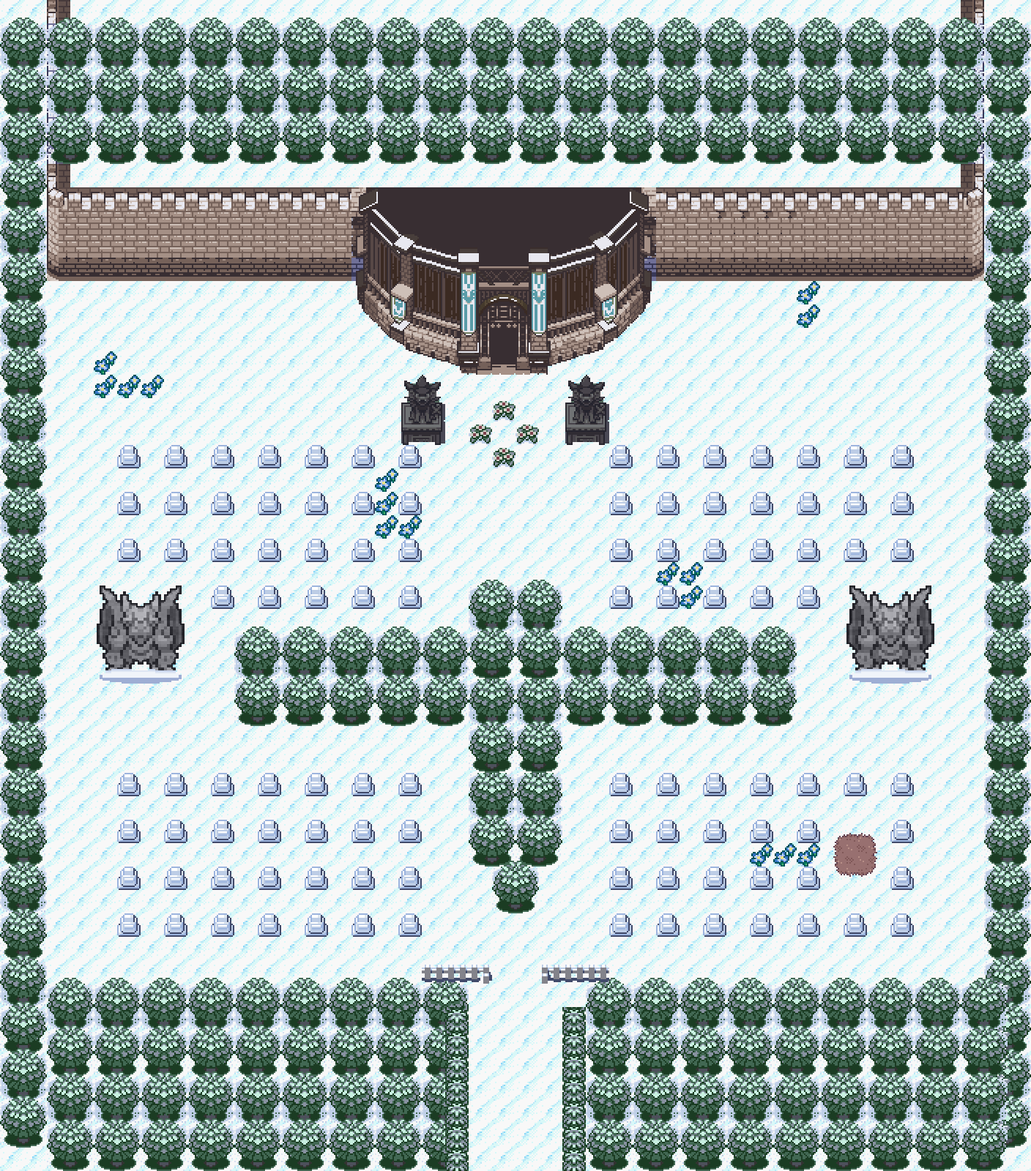
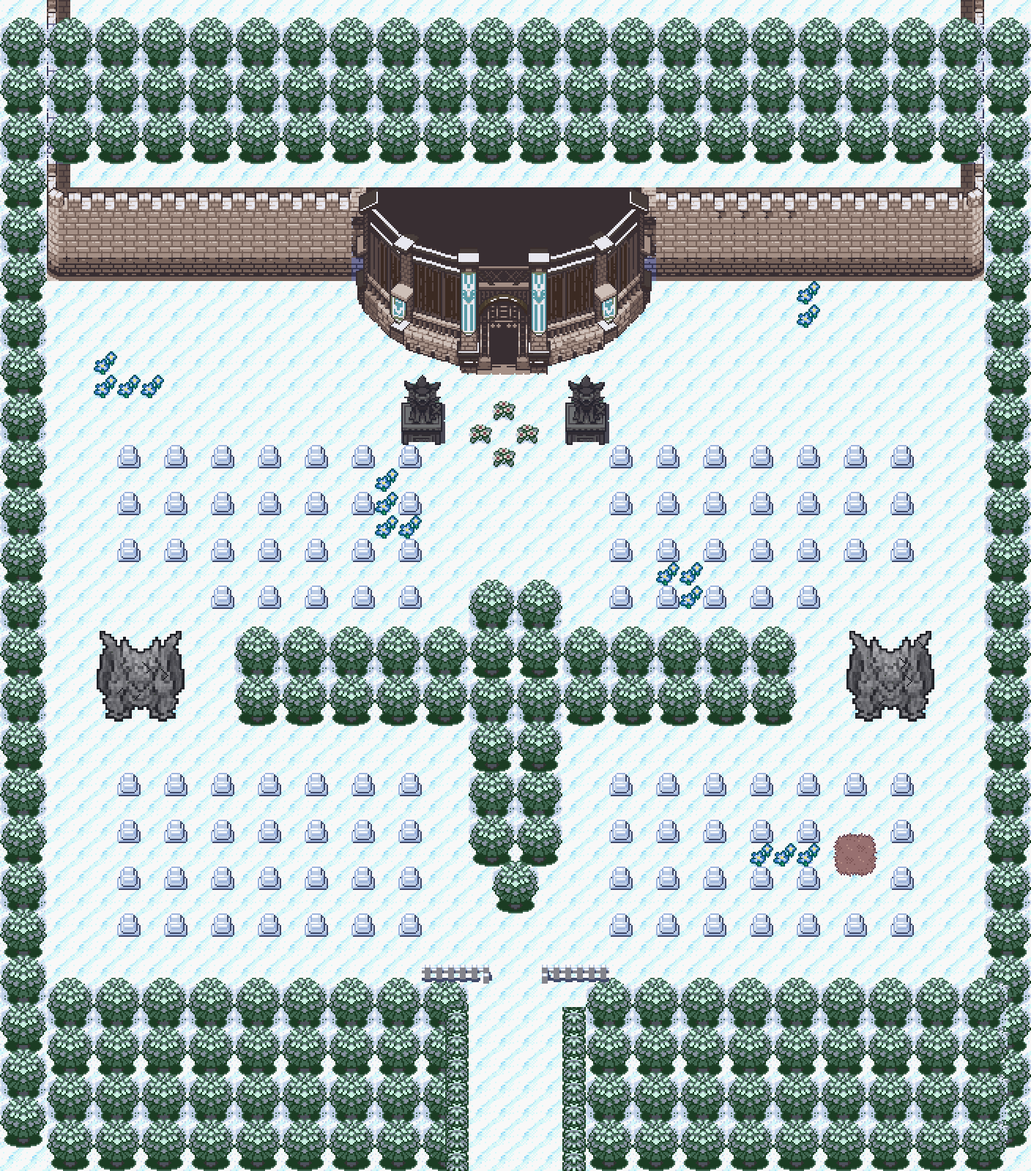
Necropolis grounds: weathered stone Druddighuls, centred on the tree cross
The user: stonier and weathered, nothing beneath them, centred on the trees; this version approved ("this actually looks correct"). Rough weathered stone, a one-pixel outline, centred to the pixel on the arm of the cross and across the gap to the yard's trees; the nearest graves kept clear. (A ring of half-buried graves is left in the code, unused.)

Claude-Session: https://claude.ai/code/session_01FHXnfqnedTHLf5QFbB3MCU

Changed region(s): [[0.8125, 0.5, 0.9062, 0.625], [0.0938, 0.5, 0.1875, 0.625]]

diff --git a/tools/art/necropolis/grounds_mock.py b/tools/art/necropolis/grounds_mock.py
@@ -81,49 +81,84 @@ def stone(img, x0=0, y0=0):
             out[y, x] += (rnd('st', x0 + x, y0 + y) - 0.5) * 18
     return np.clip(out, 0, 255).astype(np.uint8)
 
-def druddighul_statue(M, x0, y0):
+def weathered_stone(img, a, seed):
+    """Old grey stone, rough and weathered (user 2026-11-21: "this actually looks correct"): the lightness on a
+    cold grey ramp under a strong mottle, light catching its top edges, grime gathered low down, hairline cracks,
+    lichen-dark pits; a one-pixel outline."""
+    from scipy.ndimage import binary_erosion
+    f = img.astype(float); l = v3._lum(f) / 255.0
+    lo, hi = np.array([36, 36, 42], float), np.array([196, 196, 200], float)
+    t = np.clip((l - 0.08) / 0.8, 0, 1) * 0.85 + 0.08
+    hh, ww = l.shape
+    noise = np.array([[rnd(seed, 'm', x // 2, y // 2) - 0.5 + 0.5 * (rnd(seed, 'f', x, y) - 0.5)
+                       for x in range(ww)] for y in range(hh)])
+    t = t + noise * 0.22
+    ys = np.arange(hh)[:, None] / hh
+    t = t - 0.12 * np.clip((ys - 0.65) / 0.35, 0, 1)                  # grime low down
+    up = a & ~np.vstack([np.zeros((1, ww), bool), a[:-1]])               # pixels with open air above
+    t[up] += 0.18
+    out = lo + (hi - lo) * np.clip(t, 0, 1)[..., None]
+    for k in range(7):                                                    # hairline cracks
+        x, y = int(rnd(seed, 'cx', k) * ww), int(rnd(seed, 'cy', k) * hh)
+        for j in range(4 + int(rnd(seed, 'cl', k) * 5)):
+            if 0 <= x < ww and 0 <= y < hh and a[y, x]: out[y, x] = (30, 30, 36)
+            x += 1 if rnd(seed, 'dx', k, j) < 0.5 else -1; y += 1
+    for k in range(16):                                                   # lichen-dark pits
+        x, y = int(rnd(seed, 'px', k) * ww), int(rnd(seed, 'py', k) * hh)
+        if a[y, x]: out[y, x] = (62, 70, 62)
+    edge = a & ~binary_erosion(a, np.ones((3, 3), bool))
+    out[edge] = (30, 30, 36)
+    return np.clip(out, 0, 255).astype(np.uint8)
+
+def druddighul_statue(M, x0, y0, cy_px, seed):
     """A stone Druddighul (user 2026-11-21): MonoMyth's Druddighul, the decrepit dragon of the Apocryphal
-    Bastion's ruined castle (its overworld sprite, graphics 0x128), drawn at twice its size (user: bigger, no
-    plinth) and turned to grey stone head to toe, the stone's grain laid at the map's own pixel size so it does not
-    look blown up; it stands in the snow, no platform (user), its shadow under it, the snow banked over its feet. 4 x 5."""
+    Bastion's ruined castle (its overworld sprite, graphics 0x128), drawn at twice its size, in old weathered
+    stone with snow on it; nothing under it (user); its figure centred, to the pixel, on the tree cross's arm
+    beside it (cy_px: the arm's middle, in map pixels). Laid over the cells x0..x0+3."""
     im = np.array(Image.open(DRUDDIGHUL).convert('RGBA'))
     im = im.repeat(2, 0).repeat(2, 1)                    # 64 x 64
     rgb, a = im[..., :3], im[..., 3] > 0
-    st = stone(rgb, x0 * 16, y0 * 16)
-    # the outline (its darkest pixels on the edge of the figure) back to one pixel wide, so the doubled
-    # sprite keeps a fine line where it meets the snow
-    from scipy.ndimage import binary_erosion
-    inner = binary_erosion(a, np.ones((3, 3), bool))
-    edge = a & ~inner
-    st[edge] = (np.array([34, 34, 40]))
-    # no platform (user): it stands in the snow, its shadow on the snow under it and the snow banked up over
-    # its feet
-    hh, ww = a.shape
-    rows = np.where(a.any(1))[0]; foot = rows[-1]
-    cols = np.where(a[foot - 6:foot + 1].any(0))[0]; cx = (cols[0] + cols[-1]) / 2; rx = (cols[-1] - cols[0]) / 2 + 5
-    canvas = np.zeros((hh + 8, ww, 3), np.uint8); alpha = np.zeros((hh + 8, ww), bool)
-    for y in range(foot - 4, foot + 6):                     # the shadow: an ellipse of cold blue under the feet
-        for x in range(ww):
-            if ((x - cx) / rx) ** 2 + ((y - foot - 1) / 4.5) ** 2 < 1:
-                canvas[y, x] = (158, 174, 212); alpha[y, x] = True
-    canvas[:hh][a] = st[a]; alpha[:hh] |= a
-    snow = np.array([(240, 244, 250), (222, 230, 244), (200, 212, 236)])
-    for x in range(int(cx - rx + 3), int(cx + rx - 2)):     # the drift over the feet, its top edge uneven
-        top = foot - 2 - int(2 * rnd('dr', x0, x // 3))
-        for y in range(top, foot + 2):
-            if 0 <= x < ww and (alpha[y, x]):
-                canvas[y, x] = snow[0] if y > top else snow[1]
-        if 0 <= x < ww and alpha[top - 1, x] and a[top - 1, x]: canvas[top - 1, x] = snow[2]
-    blk = [[(canvas[dy * 16:dy * 16 + 16, dx * 16:dx * 16 + 16], alpha[dy * 16:dy * 16 + 16, dx * 16:dx * 16 + 16])
-            for dx in range(4)] for dy in range(5)] if hh + 8 > 64 else None
-    pad = np.zeros((80, ww, 3), np.uint8); pa = np.zeros((80, ww), bool)
-    pad[:hh + 8] = canvas; pa[:hh + 8] = alpha
-    blk = [[(pad[dy * 16:dy * 16 + 16, dx * 16:dx * 16 + 16], pa[dy * 16:dy * 16 + 16, dx * 16:dx * 16 + 16])
-            for dx in range(4)] for dy in range(5)]
-    M.place(blk, x0, y0, 'statue', check=False)
-    for dy in range(4):
-        for dx in range(4):
-            if a[dy * 16:dy * 16 + 16, dx * 16:dx * 16 + 16].any(): M.otag[y0 + dy, x0 + dx] = 'statue'
+    st = weathered_stone(rgb, a, seed)
+    rows = np.where(a.any(1))[0]; cols = np.where(a.any(0))[0]
+    fig = st[rows[0]:rows[-1] + 1, cols[0]:cols[-1] + 1]; fa = a[rows[0]:rows[-1] + 1, cols[0]:cols[-1] + 1]
+    fh, fw = fa.shape
+    top = int(round(cy_px - fh / 2)); left = x0 * 16 + (64 - fw) // 2
+    ty0 = top // 16; ty1 = (top + fh - 1) // 16
+    for ty in range(ty0, ty1 + 1):
+        for tx in range(x0, x0 + 4):
+            c = np.zeros((16, 16, 3), np.uint8); ca = np.zeros((16, 16), bool)
+            for py in range(16):
+                for px in range(16):
+                    fy, fx_ = ty * 16 + py - top, tx * 16 + px - left
+                    if 0 <= fy < fh and 0 <= fx_ < fw and fa[fy, fx_]:
+                        c[py, px] = fig[fy, fx_]; ca[py, px] = True
+            if ca.any():
+                M.obj[ty][tx].append((c, ca)); M.otag[ty, tx] = 'statue'
+
+def buried_grave(M, x, y, seed):
+    """A half-buried grave: Dreamstone Mysteries' headstone sunk into the snow (four to six pixels), the snow
+    heaped against its foot."""
+    s = np.asarray(DM.metatile(0x3A5), np.uint8); a = ~(s == _DMSNOW).all(-1)
+    d = 4 + int(rnd(seed, 'd', x, y) * 3)
+    img = np.zeros_like(s); al = np.zeros_like(a)
+    img[d:] = s[:16 - d]; al[d:] = a[:16 - d]
+    cols = np.where(al.any(0))[0]
+    for xx in range(max(cols[0] - 1, 0), min(cols[-1] + 2, 16)):  # the heap: uneven, over its foot
+        top = 12 - int(rnd(seed, 'h', x, y, xx // 2) * 2)
+        for yy in range(top, 16):
+            img[yy, xx] = (238, 242, 250) if yy > top else (210, 220, 238); al[yy, xx] = yy < 15 or al[yy, xx]
+    M.place([[(img, al)]], x, y, 'grave')
+
+def stone_ring(M, cx, cy, seed):
+    """A ring of half-buried graves round a statue (user): eight, about a statue's width and a half out from its
+    middle (cx, cy: map cells), on snow only."""
+    import math
+    done = set()
+    for k in range(8):
+        ang = k * math.pi / 4 + 0.39
+        x = int(round(cx + 3.9 * math.cos(ang))); y = int(round(cy + 3.4 * math.sin(ang)))
+        if (x, y) in done or not M.free(x, y, 1, 1): continue
+        done.add((x, y)); buried_grave(M, x, y, seed)
 
 def flowers(M, seed, n_clusters, avoid):
     """Snow flowers the way they grow: a few clumps (two to five plants each, touching), in the open snow away
@@ -194,13 +229,18 @@ def compose():
         if y == 17: continue                            # (its head starts below the roses)
         trees(M, 20, y + O, 2, tip=(y == 21)); trees(M, 22, y + O, 2, tip=(y == 21))
     trees(M, 21, 33 + O, 1)
-    # --- a stone Druddighul either side of the cross (user: in place of the mausoleums), bigger, on rock
-    druddighul_statue(M, 4, 25); druddighul_statue(M, 36, 25)
+    # --- a stone Druddighul either side of the cross (user: in place of the mausoleums), centred to the pixel on
+    # the cross's arm, and across the gap between the arm's ends and the trees closing the yard
+    arm = [y * 16 + py for y in range(H) for (img, al) in M.obj[y][10] for py in range(16) if al[py].any()
+           and 23 <= y <= 32]
+    cy = (min(arm) + max(arm) + 1) / 2
+    druddighul_statue(M, 4, 0, cy, 'dw'); druddighul_statue(M, 36, 0, cy, 'de')
     # --- headstones in rows in the four quarters (every other cell, as in Dreamstone Mysteries)
     for (x0, x1, y0, y1) in ((5, 17, 15, 21), (26, 38, 15, 21), (5, 17, 29, 35), (26, 38, 29, 35)):
         for y in range(y0 + O, y1 + O + 1, 2):
             for x in range(x0, x1 + 1, 2):
-                if M.free(x, y, 1, 1) and not (35 <= x <= 37 and 31 + O <= y <= 33 + O): mm.headstone(M, x, y)
+                if M.free(x, y, 1, 1) and not (35 <= x <= 37 and 31 + O <= y <= 33 + O) \
+                        and not ((3 <= x <= 8 or 35 <= x <= 40) and 24 <= y <= 32): mm.headstone(M, x, y)
     # the open grave (Dreamstone Mysteries' dug earth), lower right
     M.place(dm([[0x103, 0x104, 0x105], [0x10b, 0x10c, 0x10d], [0x113, 0x114, 0x115]]), 35, 31 + O, 'grave', check=False)
     # --- the winter roses at the head, between the gargoyles

diff --git a/bible/20_chapter1_build.md b/bible/20_chapter1_build.md
@@ -183,7 +183,7 @@ Chapter 1 is the template: once its foundations (mechanics, maps, buildings, NPC
 - **Route 11 and Hollow Hill: layouts approved (user 2026-11-20).** **Route 11** (45x30, west from Pelluca's west road): Pelluca's pines and cobble road carry on at the east end (the seam to Pelluca uses Pelluca's own Cormoria tiles), farmland in the middle (a thatched farmhouse with a fenced yard, cabbage rows, a sown field, hay; fenced flower rows and tall grass south of the road), tan cliffs stepping down along the north, a cliff-flanked little cove on the south coast, and at the west end the road becomes a dirt track into cooler dark woods running on into Hollow Hill (the Eiscue scene on that track). Art: Crown's seaside farm village (3.1) and dark woods (3.25), Odyssey's farm (0.232); Pisces' Brumist Cliffs / Zotpyre Village (snowy in the ROM) and Odyssey's terraced hill as layout ideas. **Hollow Hill** (about 50x50; **its theme (approved by the user 2026-11-20, "perfect"):** Ghost Grey's Route 1 theme re-arranged as `MUS_DR_HOLLOW_HILL` by `tools/music/arrange_hollow_hill.py`: slowed from 124 to 64 bpm, on the soft pedal piano, no percussion, with a ghostly far-off voice echoing the tune (a sine tone first, heard as beeps: replaced) (wind was tried and taken out: it came across as static) in the bars where the song falls quiet; credit Ghost Grey): woods rising in three rings, each a cliff step up, to a central rock knoll; the path in from Route 11 climbs the rings by stairs to **the sealed tunnel door** at the knoll's foot; the north exit to Mirroh leaves from the outer ring (Glaive there); the Eiscue and the 1v2 on the outer ring; **very foggy, with a generally spooky, unsettling feeling** (user 2026-11-20). **The summit is late-game** (unlocked only with Valkeerin/Keerin in the party; the trip to the distant future and the Red fight happen there; 19_location_atlas.md). **Hollow Hill will be revisited and added to over the whole game** (many secrets, met in pieces): its layout and its tileset keep room for more (hidden burrow mouths placed now as scenery that can later open, the summit area behind the sealed door, spare palette and tile room in its tileset). **Revision (user 2026-11-20, after the first mock):** Route 11 is **about twice as long (about 90x30)**; the **Ivy River's thin western branch** (as on the illustrated region map, coming down from the north past the Necropolis just west of Pelluca) **crosses Route 11 near its Pelluca end and runs down to the beach and the sea; the road crosses it on a bridge**; the **grass shifts gradually** from Pelluca's light mint to the darker temperate greens of Hollow Hill's woods (shades reaching into each other in patches, as MonoMyth's and Crown's route boundaries do; tree kinds mixing before they change). Design rule: no tree or object ever cut, stacked into another or bleeding into buildings, cliffs or water (docs/chapter1_workflow.md). **Mock v2 (2026-11-20):** the river drops through a chasm in three falls (the middle one under the bridge), over the coastal cliff into a rock pool, and a stream bends west over the sand to the sea; the beach is a cove between cliff walls, split by the stream. **Steps down to the west beach (user 2026-11-20)** are cut into the coastal cliff just west of the bridge (stone stairs, two wide: Pelluca's own stair tiles, as in its sea wall): the beach holds **at least one trainer**, and more may go there later. The east beach (between the stream and Pelluca's pines) has no way down yet: **revisit later (user 2026-11-20).** **Built (2026-11-20):** `MAP_ROUTE11` (layout 90x40: five rows of woods, the chasm and the sea added above and below the approved picture, out of the player's reach, so the camera never shows past the edge), connected to Pelluca's west road (Route 11's road rows 19-21 = Pelluca's 28-30). Its own secondary tileset (`gTileset_Route11`, 7 palettes: grass, broadleaf woods, farm, cottage and hay, bridge, cliffs, river and pines on sage) under Pelluca's primary; Pelluca's own metatiles wherever a cell is one. Crowns of trees are walked behind; tall grass is tall grass (no encounter table yet: stage 5); the river in the chasm is solid, the stream and the sea need Surf. **Story gate (provisional):** stepping onto Pelluca's west edge is stopped with Osrid's line ("Cadmus told me to meet him at the church..." after the blast, a general line before it) until the shrine is awakened; stage 4 sets the real condition. **Music (user 2026-11-20):** MonoMyth's Route 15 theme (`MUS_DR_MM_ROUTE15`): a classic Pokémon route theme, reworked, a bright contrast before spooky Hollow Hill. Credit: MonoMyth (its music). **Pelluca Valley's main theme (user 2026-11-20):** Pokémon Crown's route theme (its song 292, `MUS_DR_CROWN_PELLUCA`), replacing Lilycove's, **in the piano version the user chose** (`MUS_DR_CROWN_PELLUCA_PIANO`: our pedal piano for its guitar, harp, clarinet and flute, standalone; the original as ported was removed, user: the remix is better). Credit: Pokémon Crown (its music). **Cold-open music (user 2026-11-20):** MonoMyth's "A Legend Unfolds" (`MUS_DR_LEGEND_UNFOLDS`; in MonoMyth it plays when Fabrizia's museum in North Edelweiss tells the legend of Athanto's Pokémon) plays from Tenebris's notes through Cadmus's letter until Osrid docks in Pelluca, replacing "Far Horizons". Credit: MonoMyth (its music). **Loops checked in the game (2026-11-20):** Pelluca's theme, Route 11's, the cold open's and Hollow Hill's each play through their loop point and come back in step with their loop start (every track loops at the same point). **Sound engine (2026-11-20):** 12 sampled voices instead of 5, as MonoMyth uses (the songs from MonoMyth and Crown play up to 10-12 notes at once; with 5 they cut each other off). **Hollow Hill mock v3 (user 2026-11-20: "quite good"):** `tools/art/hollowhill/hh_mock.py`, renders in `assets/hollowhill_reference/`. Art: Pokémon Odyssey's haunted forest (its maps 0.94/0.95/0.97: teal floor, dark pines, dead trees, stumps, logs, red mushrooms, dark tall grass, burrow hollows, grey stone terraces and stairs, the sealed blue door); credit Odyssey. Layout 66x64 (the hill about 40x37; the extra width is the east edge, where Route 11's olive ground and Crown woods darken and mix into the teal and the pines over about ten columns; Route 11's row = Hollow Hill's row - 24, its track on rows 43-45). Ring edges drawn by Odyssey's own terrace grammar, two bands per ring, three for the knoll. **The way through (user 2026-11-20):** the woods floor is closed into sections by trees running up to the cliffs (north-west corner, north, east, south), and ring 2 reaches out west and east to ring 1's edge, cutting ring 1 into a north and a south half, so **the player can never go round the hill: from Route 11 up ring 1, up ring 2 (the sealed door, or over), down the north side to the north woods and the exit to Mirroh.** Eight stairs, four per ring (south faces, and north edges with the steps drawn down-facing) link the sections: the clearing (Eiscue, the 1v2) is its own section with its own stairs; the north-east woods are a dead-end pocket (room for an item or a secret). The mock checks this each run: with ring 2's stairs closed the north is out of reach; with ring 1's closed the woods sections do not join. The void pits with red eyes were dropped (they read as ponds). **Later (user 2026-11-20):** Hollow Hill keeps being worked on through the game, e.g. **a cool ruined structure on the top**, since it truly is an ancient and arguably cursed place. **Colours (user 2026-11-20):** the woods and their floor an **off-white, creepy bone** (Odyssey's pines, floor and tall grass recoloured one for one), the cliffs a **sinister stone, dark and light mixed** (near-black violet shade, charcoal faces, bone-pale lit edges), so Hollow Hill stands out even in the fog; trunks, red mushrooms and the sealed door's cold blue kept. At the east edge Route 11's green woods pale toward bone over three columns of trees (`hh_mock.py` BONE, tint). **Built (2026-11-20):** `MAP_HOLLOW_HILL` (layout 66x64; `tools/art/hollowhill/build_hollowhill.py` from `hh_mock.py`, mock v8), connected to Route 11's west edge (Hollow Hill's row = Route 11's + 24; the track on rows 43-45). **The seam:** Hollow Hill's columns 58-65 are Route 11's own columns 1-8 (the same blocks; its woods' pattern carried up above Route 11's top), and its tileset (`gTileset_HollowHill`, under Pelluca's primary) keeps Route 11's 24 seam metatiles, their 69 tiles and its two palettes (grass, broadleaf woods: slots 6-7) at the same ids, numbers and slots, so each map draws the other's edge right. Its own: 208 metatiles, 437 tiles, 5 palettes (floor, pines and wood, stone and blood, Crown's woods paled, the door and mushrooms). **The tiles are nearly full** (4 of 512 spare): the webs and the blood are built as repeating pieces (a few drip and blot patterns, one garland per spacing of trees) to fit; later additions (the ruins on top, burrows that open) are best as their own maps behind the sealed door and the burrows, or by trimming the webs/the olive-to-bone shades. Cliffs solid, stairs walkable, tree crowns walked behind, webs drawn over the player, the dark tufts are tall grass (no encounter table yet: stage 5). Weather `WEATHER_FOG_HORIZONTAL`, **thinned for Hollow Hill** (src/field_weather_effect.c: 6/16 over 13/16 instead of 12/16 over 8/16, so the bone woods are not washed out; other foggy maps unchanged); music `MUS_DR_HOLLOW_HILL`; `MAPSEC_DR_HOLLOW_HILL`. The way north runs off the top edge (the Mirroh area is next; no connection yet). Walked in the emulator from Route 11 up both rings, to the door, down the north side to the way north, and to the clearing. **The Hollow Hill guardian (user 2026-11-20; a special quest later in the game):** the personification of the haunted energy that has gathered round Hollow Hill for many years, so strong it **reanimated the dead body of an Araquanid as its vessel**: a custom **undead Araquanid**, a blood bubble for its water bubble, a skull-like face, skeletal limbs and body. Still **Water/Bug**, ability **Water Bubble**; about **level 65**; exceptionally strong: starts the fight at **+1 Attack, Defense, Special Defense and Speed**. It holds the **Reaver's Fang**, which the player gets by defeating it. **Reaver's Fang (held item; user 2026-11-20):** (1) the holder heals **25% of the physical or special damage it deals**; (2) when an enemy's physical or special attack damages the holder, the holder **heals 25% of that damage and the same amount is dealt back to the attacker**; (3) recoil the holder inflicts on itself is lifestolen at 25% too (user, first description; no attacker to hit back). **One of the strongest held items in the game**, which is why it **cannot be had until after midgame** (the guardian's quest is post-midgame). The blood webs across Hollow Hill are signs of its power over the woods. **Not catchable** (user 2026-11-20): it is only cursed energy possessing and working the corpse of a dead Pokémon. **Art:** the user will help make the base art for the assistant to modify further, and may let the assistant try the design when the time comes. OPEN: a new form with its own stats or Araquanid with the boosts; the quest. **Unsettling throughout (user 2026-11-20):** the pines' bone shades go to a **sinister grey** in their depths; **blood-like stains** run down the cliffs from their tops and soak into the stone in blots (more round the sealed door); **Blood-red webbing in MonoMyth's Webbed Woods style, hung across the trees** (user 2026-11-20: a web on each tree looked strange; hang them across more of the trees, more naturally; webs on actual groups of trees, never in the open): sheets of web sag from tree to tree along the woods' edges (the north and south treelines, garlands from each crown to the next at about the same height, two or three threads deep, laced by MonoMyth's zig-zags, torn threads trailing), bulge out from tree to tree down the west woods' side and the trees closing the way east, link pines standing near each other or near a woods' edge (the pair on ring 1), MonoMyth's big sagging net across the narrow way north, small round webs only in the dead tree's branches and in the V between the trees closing the way south. Drawn a pixel at a time in the webbing's two colours (MonoMyth's, made old-blood red); the net is MonoMyth's (`web_net.png`, 0x886DD5C). Credit MonoMyth. **The blood webs mean something (user 2026-11-20):** they are signs of the **Hollow Hill guardian's** power over the woods (below).
 - **Mirroh (user 2026-11-20/21; zone plan v2, `tools/art/mirroh/layout_sketch.py`, `assets/mirroh_reference/`).** Where Crown's medieval architecture really starts. **A mix of a Crown village and MonoMyth's Fort Elderflower** (user): a **walled city climbing the slope** of the massif in three terraces (Elderflower's crenellated terrace walls that jog with the slope, stone stairs staggered so the way winds up), Crown's timber and thatch cottages with fenced gardens below. **Light snow in the lower town, deeper uphill. Gothic, gloomy and wintry:** roofs recoloured to dark slate, iron lanterns, Crown's dragon statues darkened to gargoyles, banners in House Langerin's colours, a graveyard. **Ghost Grey's Opal Village** (user: loves its reflecting ice; study its landscape and indoor/outdoor tiles): sheets of **reflecting ice** sunk in brick rims (one in the square, one in the lower town), **dark icy streets with sparkles**, snowbanks held by brick retaining walls; its houses and museum halls for the interiors (greyscale: to be coloured). Zones: outside the **south gate** Hollow Hill's bone woods carry on (the seam), thinning to snowy pines; **lower town** (cottages, gardens, ice sheet); **middle terrace**, the square (the **Tavern**, like Pelluca's, **recoloured to the dark slate look**, user; a market hall, stalls, the ice sheet); **upper terrace** (deep snow): a gothic chapel and its graveyard (the seed of DM's Mirroh Base Camp graveyard), **House Langerin's town house** (user: yes). **Two ways out north (user):** a **north-west path** further north out of town, and a **separate north-east path to the Necropolis** (its own map uphill). **Gatehouses (user 2026-11-21):** Mirroh is guarded: people may not come and go as they please. **Two walk-through gatehouse buildings with guards** (enter one side, pass the guards inside, leave by the other; interior maps): the **south gatehouse** between Hollow Hill and the city proper, and the **north-west gatehouse** on the route toward the mountain, the Templar HQ and beyond. The **north-east path to the Necropolis is open** (no gate; the Necropolis keeps its own entrance). **Plan approved by the user ("basically perfect").** **Gates, decided (user 2026-11-21):** the **south and north-west gatehouses are roofed gatehouse buildings** in the style of Ghost Grey's and Crown's walk-through gates (slate roof behind the crenels, a stone front with banners, a portcullis door between lanterns, round towers either side; Crown's castle gate restoned in Elderflower's stone). The south one's far door, on the city side, is **a short flight of steps up from the gatehouse** (the city is uphill; user: "yes"). Their **hallway maps** follow North Edelweiss's gate hallway (MonoMyth): a dark doorway at the top, a crimson runner, guard desks facing each other, benches and plants, the mat at the foot, in Mirroh's cold stone (`tools/art/mirroh/gate_hall.py`). **The north-east way to the Necropolis is a standalone skull gate** (user's idea: Elderflower's skull keep door, "rebuilt as a standalone gate with a new top"): the skull arch under a crenellated walk between two round towers capped with the gothic spires of Crown's cathedral; no guards; you walk through the dark arch onto the Necropolis map. **Revised (user 2026-11-21):** both gatehouses take **the towered style** (option B: three-wide round towers a row taller than the gate, capped with the Necropolis gate's spires; no steps and no mat (a mat against the roof read wrong): the south one's far door is where the city's cobbled lane runs into its back), and **between the towers the real roof of Crown's cathedral** (its metal-sheet roof as it runs back between the cathedral's spired towers, cut out and widened at mid-slope), **in copper**, over Crown's gate core (pillar, lantern, portcullis, lantern, pillar, two banners); 14 wide (user: no roof at all looked strange; a drawn roof did not look like a natural part of the gate). **No way round (user 2026-11-21: players must not sneak past Mirroh):** the three columns either side of the walls, from the top of the map to the city wall's foot, are closed by the massif's pinewood and rock (big and small pines, snow-buried rocks, rock ridges; every cell solid), and the **city's north wall** runs along the top from wall to wall, broken only by the north-west gatehouse and the Necropolis gate. The mock checks it: from Hollow Hill nothing is reachable past the south gatehouse, and from inside the city the top edge is reachable only through the gates. **Snow and stone (user 2026-11-21: more fluid and natural, not big blocks of snow):** on the paved terraces the snow lies in ragged drifts of every size (smooth noise at two scales, a little deeper toward the walls), swept clear along the ways people walk (stairs, doors, gates), and the paving round the drifts is **dusted** (a few pieces of paving with snow specks, thicker next to the drifts, thinning out), so the drifts fade into the stone; deeper on the sacred terrace. The ice sits in rounded, uneven pools, the snow drifting straight onto it; the lower town's cobbled lanes wander and vary in width. **The fortress stone (user 2026-11-21):** every wall, tower, parapet, stair and both gatehouses (and the Necropolis gate) in **one copper-shaded stone**, a cold grey warmed toward copper, to go with the copper roofs (`cstone`, mapped by lightness from Elderflower's stone; the snow on the crenels and the dark slate paving kept); the gatehouse roof runs in behind its towers (no gap at its sides). **Copper is Mirroh's main colour and House Langerin's crest's** (user): used as the contrast to the dark slate and the snow wherever it makes sense: the gatehouse roofs, the banners (Crown's purple ones in copper), the chapel's roof (Crown's verdigris roof in copper, a little green left in its seams), House Langerin's town house roof, the hallway runners and mats (copper rather than red: red is generic). **Mock v3 (2026-11-21, `tools/art/mirroh/mirroh_v3.py`):** the city as Elderflower-style terraces drawn from a level map (each terrace narrower than the one below, its own crenellated front wall with round-tower ends, parapets down its sides, its paving shaded under them), snow lying on the paving in drifts, the reflecting ice set in snowy yards (the snow drifting onto the ice, no rim), cobbled lanes in the lower town; every borrowed building cut out of its source cleanly (only the source's true ground removed).
 - **Chapter 1 asset references (user 2026-11-19), for later: nothing built yet.** **Permissions and credits (user 2026-11-19):** Pokémon Crown (Blah and the Crown team) and Pokémon Ghost Grey Version EX (JoeyZeed) are used with permission; credit them in the notes alongside MonoMyth, Pokémon Odyssey and the Pokémon Rejuvenation team. Sources earmarked while surveying Pokémon Crown (FireRed hack by Blah and the Crown team; `tools/crown/README.md`, renders in `assets/crown_reference/`), MonoMyth, Dreamstone Mysteries and Rejuvenation:
-  - **Mirroh Necropolis, plan (user 2026-11-21):** **the grounds and two catacomb floors.** The grounds (its own map, reached through Mirroh's skull gate): a walled cemetery on the slope above the city, the grand entrance down into the catacombs at its head. **Floor 1: Dale Langerin. Floor 2: Gram Langerin.** Then **the Trial: the frozen underground lake of the dead** (user): an ice-sliding puzzle in the manner of **Ghost Grey's Heater Forest** (user: sliding ice, not cracking ice; step onto the ice and you slide until a boulder, a wall or a patch of snow or stone stops you; `tools/ghostgrey/README.md`) across the lake to **light four spectral bonfires**; **each bonfire is guarded by a necromancer trainer**, so the player fights **four trainers** at the bonfires; with all four lit **the way to Kimaris opens**, and he waits in the Trial chamber beyond. The Distortion gate's room lies sealed deeper still (late game). **The grounds (user 2026-11-21): an expanded version of Dreamstone Mysteries' graveyard in modern Mirroh** (LAYOUT_MIRROH_BASE_CAMP_GRAVEYARD) with the rest of the plan: its round snowy trees closing it in, the great cross of trees in its middle, headstones in rows in its four quarters, winter roses at its head, an open grave, the way in at its foot between hedges and a fence (from Mirroh's skull gate); added: the grand entrance (Crown's palisade gate, charred, its lanterns a cold ghost flame, the dark within it the way down) standing out from a fortress wall of the copper-shaded stone, gargoyles before it, **a stone Druddighul at each end of the cross** (user 2026-11-21, in place of the mausoleums: MonoMyth's Druddighul, Druddigon's Ghost/Dragon evolution, the decrepit dragon that attacks you on top of the ruined castle of the Apocryphal Bastion deep in the Webbed Woods; its overworld sprite, MonoMyth graphics 0x128, 32x32, `tools/monomyth/mm_bigsprites.py`, `assets/monomyth_reference/pieces/druddighul_ow.png`, turned to grey stone head to toe; **twice its size, no platform: it stands in the snow, its shadow under it and the snow banked over its feet** (user: no plinth, then no rock outcrop either), credit MonoMyth); no lamps (user); the snow flowers in a few natural clumps well apart, none scattered alone (user). Mock v1: `tools/art/necropolis/grounds_mock.py`, 44x50, renders in `assets/necropolis_reference/`. **Surface look (assumed, user did not choose; to confirm):** Mirroh's family but darker and older: deeper snow, the same copper-shaded stone walls aged darker, dead trees and black iron, copper roofs gone green, fog.
+  - **Mirroh Necropolis, plan (user 2026-11-21):** **the grounds and two catacomb floors.** The grounds (its own map, reached through Mirroh's skull gate): a walled cemetery on the slope above the city, the grand entrance down into the catacombs at its head. **Floor 1: Dale Langerin. Floor 2: Gram Langerin.** Then **the Trial: the frozen underground lake of the dead** (user): an ice-sliding puzzle in the manner of **Ghost Grey's Heater Forest** (user: sliding ice, not cracking ice; step onto the ice and you slide until a boulder, a wall or a patch of snow or stone stops you; `tools/ghostgrey/README.md`) across the lake to **light four spectral bonfires**; **each bonfire is guarded by a necromancer trainer**, so the player fights **four trainers** at the bonfires; with all four lit **the way to Kimaris opens**, and he waits in the Trial chamber beyond. The Distortion gate's room lies sealed deeper still (late game). **The grounds (user 2026-11-21): an expanded version of Dreamstone Mysteries' graveyard in modern Mirroh** (LAYOUT_MIRROH_BASE_CAMP_GRAVEYARD) with the rest of the plan: its round snowy trees closing it in, the great cross of trees in its middle, headstones in rows in its four quarters, winter roses at its head, an open grave, the way in at its foot between hedges and a fence (from Mirroh's skull gate); added: the grand entrance (Crown's palisade gate, charred, its lanterns a cold ghost flame, the dark within it the way down) standing out from a fortress wall of the copper-shaded stone, gargoyles before it, **a stone Druddighul at each end of the cross** (user 2026-11-21, in place of the mausoleums: MonoMyth's Druddighul, Druddigon's Ghost/Dragon evolution, the decrepit dragon that attacks you on top of the ruined castle of the Apocryphal Bastion deep in the Webbed Woods; its overworld sprite, MonoMyth graphics 0x128, 32x32, `tools/monomyth/mm_bigsprites.py`, `assets/monomyth_reference/pieces/druddighul_ow.png`, turned to grey stone head to toe; **twice its size, in rough, weathered grey stone (a strong mottle, grime low down, hairline cracks, lichen-dark pits), with nothing under it, each centred to the pixel on the arm of the tree cross and across the gap between the arm's end and the trees closing the yard** (user: no plinth, no rock outcrop, no shadow; "this actually looks correct"; the graves nearest kept a cell clear), credit MonoMyth); no lamps (user); the snow flowers in a few natural clumps well apart, none scattered alone (user). Mock v1: `tools/art/necropolis/grounds_mock.py`, 44x50, renders in `assets/necropolis_reference/`. **Surface look (assumed, user did not choose; to confirm):** Mirroh's family but darker and older: deeper snow, the same copper-shaded stone walls aged darker, dead trees and black iron, copper roofs gone green, fog.
   - **Mirroh Necropolis entrance:** Crown's curved palisade gate (walled capital, map group 3 #3, cells x43-54 y5-13), recoloured sinister (slate stone, charred wood, tarnished bronze arch, spectral banners) with graveyard/gothic ornament, as the grand entrance down into the catacombs (user). Catacomb levels: Crown's underground stone halls (group 6 #8: tiered walls, cobwebs, pillars, plank bridges over a chasm, a sealed chamber) and its sewer (group 7 #11), recoloured. Graves: DM's Mirroh Base Camp Graveyard headstones (metatile 0x3A5 in LAYOUT_MIRROH_BASE_CAMP_GRAVEYARD) and MonoMyth Speedwell's wooden cross markers (metatiles 0x39, 0xA6); dead stumps from MonoMyth's Haunted Swamp; Crown's cobwebs; Rejuvenation's iron candle stands with ghost-coloured flames; Crown's dragon statues darkened into gargoyles. **Underground catacombs (user, primary reference):** Pokémon Ghost Grey Version EX's Lavender Town catacombs (by JoeyZeed; `tools/ghostgrey/README.md`, renders in `assets/ghostgrey_reference/`): six chambers with grave niches, demon-face reliefs and chasm crossings, ending in a pillared chamber with a sealed gate (the Distortion gate's room). They are greyscale and need a proper palette.
   - **Templar Headquarters ("Templar Citadel", Mt. Mirroh):** Crown's gothic cathedral on its moat island with timber chalets (group 3 #2), with an alpine/snow treatment and perhaps an outer wall.
   - **Academy:** MonoMyth's Ironbark Cabin (0x886B35C main hall + rooms) cleaned up (user: it looks dingy now): no boarded windows, moss or broken doors. **For the rooms (user 2026-11-19): MonoMyth's clown academy in Cascade City** (0x8868EF4 / 0x886AEE0): two classrooms (green chalkboard with writing, curtained windows, rows of desks), a music room (piano, music stand), a lounge, a lobby counter; modern tiled floors, so its furniture would be lifted onto our wood. Crown's classroom (group 5 #2: blackboard, desk rows, red runner) for the classroom.
